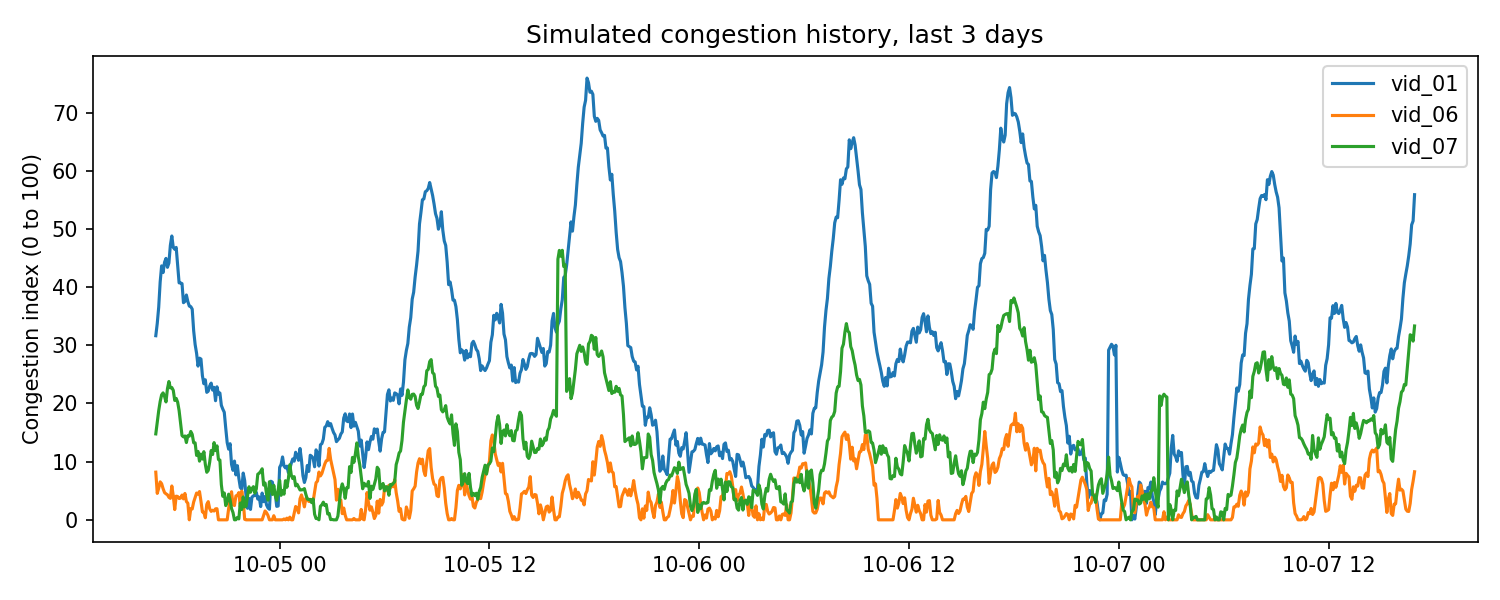
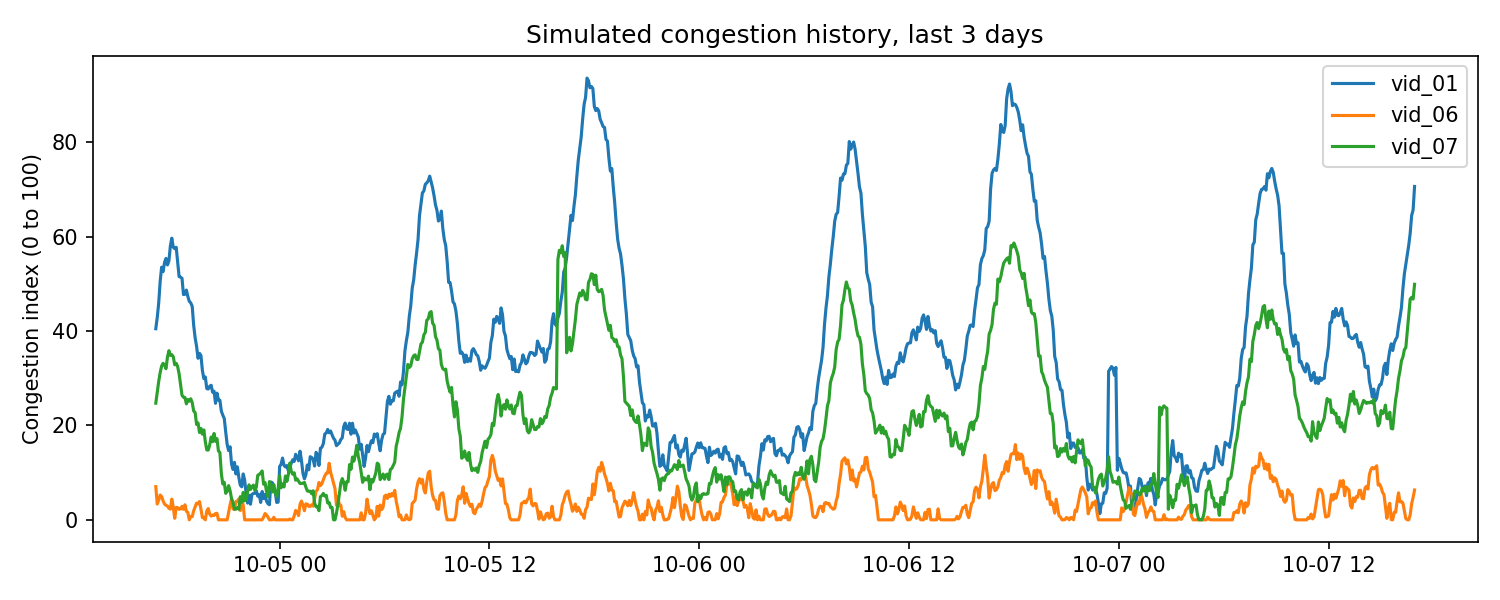
Calibrate the simulated history on the application's own congestion values

diff --git a/training/export_reference.py b/training/export_reference.py
@@ -1,0 +1,25 @@
+"""Export the congestion values the application itself uses (frame_stats means)."""
+import json
+import os
+import sys
+from pathlib import Path
+
+ROOT = Path(__file__).resolve().parents[1]
+sys.path.insert(0, str(ROOT))
+os.chdir(ROOT)
+
+from locations import get_active_zones
+from routing import load_zone_congestion
+
+OUT = ROOT / "data" / "congestion"
+
+if __name__ == "__main__":
+    OUT.mkdir(parents=True, exist_ok=True)
+    congestion = load_zone_congestion()
+    reference = {}
+    for zone in get_active_zones():
+        val = round(float(congestion.get(zone["id"], 0.0)), 1)
+        reference[zone["id"]] = {"name": zone["name"], "video": zone.get("video_file"),
+                                 "mean_index": val}
+        print(f"{zone['id']} ({zone['name']}) | application index: {val}")
+    (OUT / "reference.json").write_text(json.dumps(reference, indent=2), encoding="utf-8")
